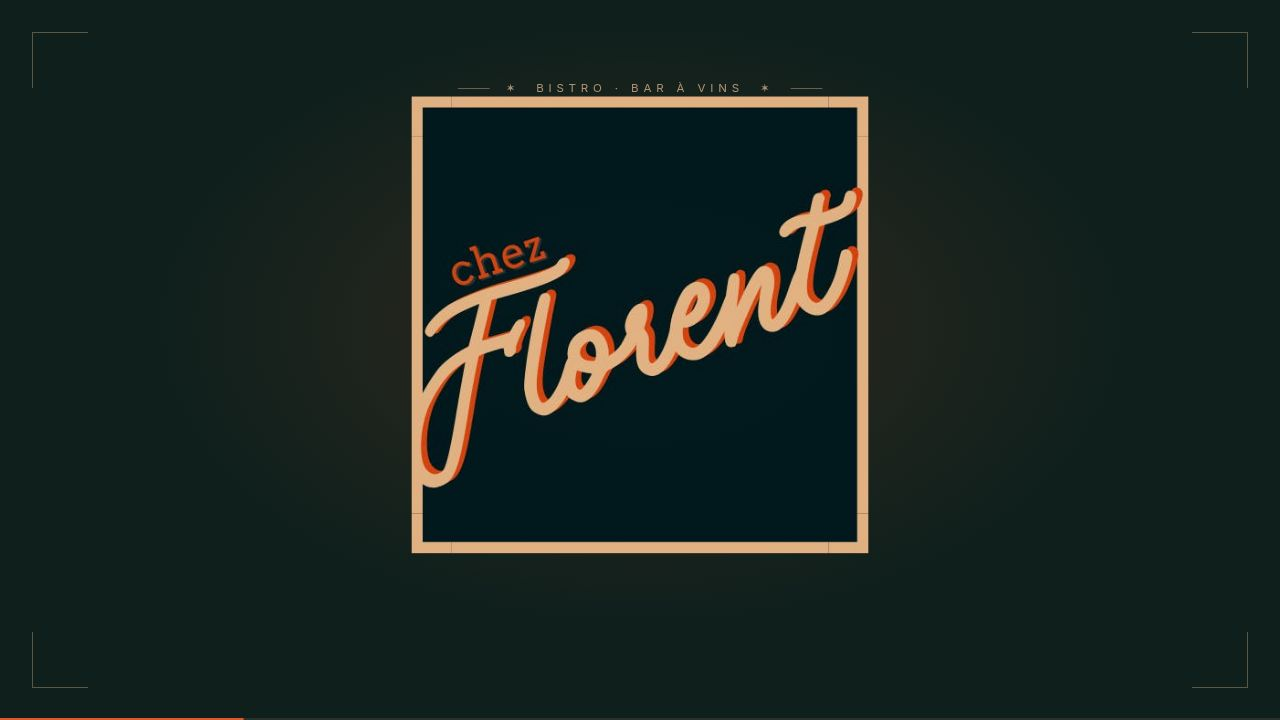
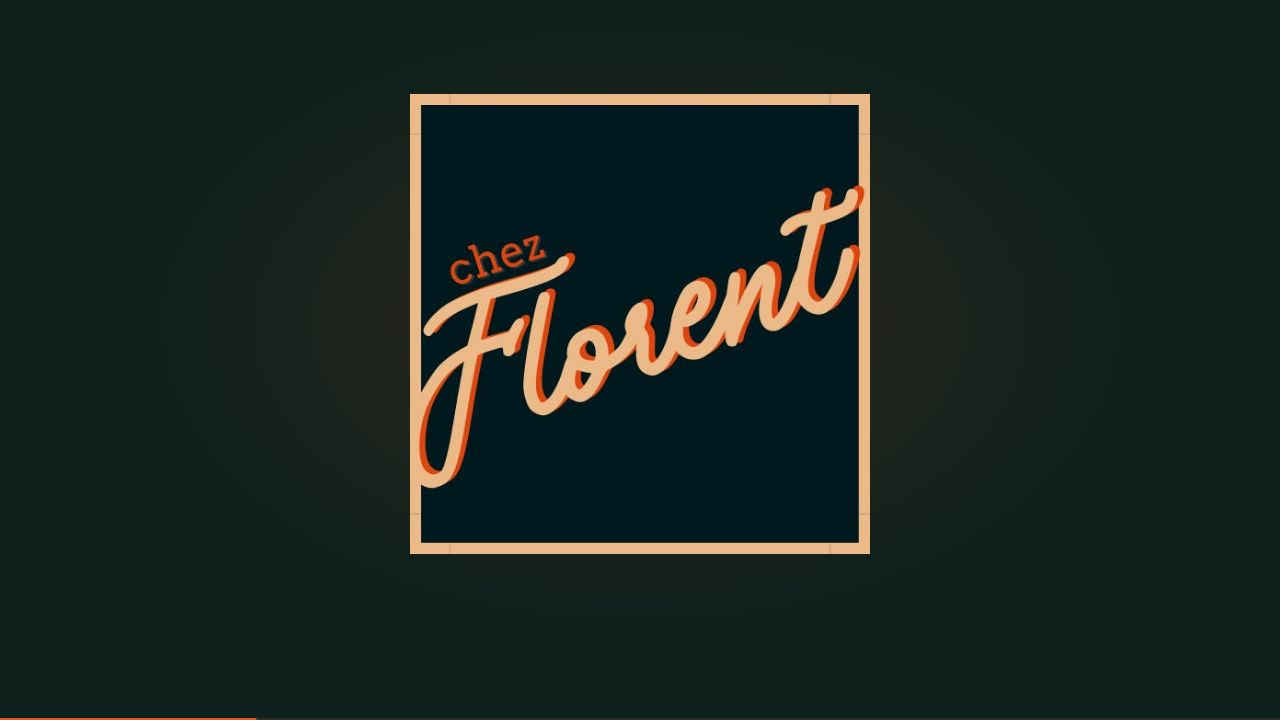
Update testimonials display and refine phone number presentation
Introduce a multi-voice testimonials section with editorial styling and ensure the phone number in the reservation CTA is always on a single line.

Replit-Commit-Author: Agent
Replit-Commit-Session-Id: 679acfb2-0d78-49a1-8e0d-1c5bc0f997c0
Replit-Commit-Checkpoint-Type: full_checkpoint
Replit-Commit-Event-Id: 7970f130-5f67-4e64-94d0-40ac4011ae63
Replit-Commit-Screenshot-Url: https://storage.googleapis.com/screenshot-production-us-central1/0b1f9c86-a932-4fad-973b-883fa82de314/679acfb2-0d78-49a1-8e0d-1c5bc0f997c0/VAoUhM6
Replit-Helium-Checkpoint-Created: true

Changed region(s): [[0.3125, 0.1222, 0.6875, 0.7639], [0.5312, 0.4583, 0.5625, 0.4889]]

diff --git a/artifacts/chez-florent/src/App.tsx b/artifacts/chez-florent/src/App.tsx
@@ -619,24 +619,40 @@ function About() {
 
         {/* Text Columns */}
         <div className="grid grid-cols-1 md:grid-cols-2 gap-12 max-w-4xl ml-auto">
-          <motion.div
+          <motion.figure
             initial={{ opacity: 0, y: 30 }}
             whileInView={{ opacity: 1, y: 0 }}
             viewport={{ once: true, margin: "-100px" }}
             transition={{ duration: 0.8, ease: EASE }}
-            className="font-serif font-normal text-bg-primary text-[1.125rem] leading-[1.8]"
+            className="m-0"
           >
-            « Florent n'est pas seulement un nom au-dessus de la porte. C'est une certaine idée du bistro : celle où l'on s'attable sans cérémonie, où le vin se verse au pichet, et où la cuisine ne triche jamais avec ses produits. »
-          </motion.div>
-          <motion.div
+            <blockquote className="font-serif font-normal text-bg-primary text-[1.125rem] leading-[1.8]">
+              « Florent n'est pas seulement un nom au-dessus de la porte. C'est une certaine idée du bistro : celle où l'on s'attable sans cérémonie, où le vin se verse au pichet, et où la cuisine ne triche jamais avec ses produits. »
+            </blockquote>
+            <figcaption className="mt-4 font-sans text-[0.75rem] tracking-[0.2em] uppercase text-bg-primary/65 flex items-center gap-3">
+              <span aria-hidden="true" className="inline-block w-8 h-px bg-orange/70" />
+              Florent Tremblay
+              <span aria-hidden="true" className="text-orange/70">·</span>
+              <span className="font-serif normal-case italic tracking-normal text-bg-primary/70">Propriétaire</span>
+            </figcaption>
+          </motion.figure>
+          <motion.figure
             initial={{ opacity: 0, y: 30 }}
             whileInView={{ opacity: 1, y: 0 }}
             viewport={{ once: true, margin: "-100px" }}
             transition={{ duration: 0.8, ease: EASE, delay: 0.1 }}
-            className="font-sans font-light text-bg-primary/75 text-[1rem] leading-[1.8]"
+            className="m-0"
           >
-            « On travaille avec des fermiers qu'on appelle par leur prénom — la Ferme J.N Beauchemin pour les saucisses, Fromagerie Fuoco pour la bufarella, Les Cowboys du BBQ pour le brisket. Le reste, c'est de l'huile de coude et du temps. »
-          </motion.div>
+            <blockquote className="font-sans font-light text-bg-primary/80 text-[1rem] leading-[1.8]">
+              « On travaille avec des fermiers qu'on appelle par leur prénom — la Ferme J.N Beauchemin pour les saucisses, Fromagerie Fuoco pour la bufarella, Les Cowboys du BBQ pour le brisket. Le reste, c'est de l'huile de coude et du temps. »
+            </blockquote>
+            <figcaption className="mt-4 font-sans text-[0.75rem] tracking-[0.2em] uppercase text-bg-primary/65 flex items-center gap-3">
+              <span aria-hidden="true" className="inline-block w-8 h-px bg-orange/70" />
+              Annie Vincent
+              <span aria-hidden="true" className="text-orange/70">·</span>
+              <span className="font-serif normal-case italic tracking-normal text-bg-primary/70">Sommelière</span>
+            </figcaption>
+          </motion.figure>
         </div>
       </div>
     </section>
@@ -896,70 +912,174 @@ function Menu() {
   );
 }
 
-function AmbianceStrip() {
+type PatronVoice = {
+  quote: string;
+  name: string;
+  context: string;
+  source: string;
+  date: string;
+  image: string;
+};
+
+const PATRON_VOICES: PatronVoice[] = [
+  {
+    quote: "Le grilled-cheese / vin orange du jeudi soir, c'est devenu notre rituel. Ils nous accueillent comme à la maison — sauf qu'à la maison, on ne mange pas aussi bien.",
+    name: "Marie-Pier Lafontaine",
+    context: "Sorel-Tracy · Habituée du jeudi",
+    source: "Google",
+    date: "Mars 2026",
+    image: "wine-pour.png",
+  },
+  {
+    quote: "Sans réservation un mardi, Florent nous a placés au comptoir avec un pichet de gamay et une planche. Trois heures plus tard, on parlait encore avec la table d'à côté.",
+    name: "Étienne Caron",
+    context: "Trois-Rivières · Premier passage",
+    source: "Tripadvisor",
+    date: "Janvier 2026",
+    image: "ambiance-smoke.png",
+  },
+  {
+    quote: "La pizza Vodka. Trois fois par mois. Pas la peine d'en dire plus.",
+    name: "Jean-Sébastien Boucher",
+    context: "Saint-Hyacinthe · 14 visites",
+    source: "Instagram",
+    date: "Avril 2026",
+    image: "dish-pizza.png",
+  },
+];
+
+function Testimonials() {
   return (
-    <section className="bg-bg-primary pb-0 pt-32 relative">
+    <section id="voix" className="bg-bg-primary pt-32 pb-32 relative overflow-hidden">
       <SectionMarker number="—" />
-      <div className="max-w-7xl mx-auto px-6 md:px-12 mb-20 relative z-10">
+
+      {/* Header */}
+      <div className="max-w-7xl mx-auto px-6 md:px-12 relative z-10 mb-20 md:mb-24">
         <div className="text-[0.75rem] font-medium tracking-[0.2em] uppercase text-cream-soft mb-6">
-          ◦ Interlude — L'ambiance
+          <span aria-hidden="true">◦ </span>Interlude — Voix de la salle
         </div>
-        <h2 className="font-serif font-light italic text-cream leading-[0.95] text-[clamp(2.5rem,6vw,5rem)] max-w-4xl">
+        <h2 className="font-display text-cream leading-[0.95] text-[clamp(4rem,11vw,9.5rem)] mb-8">
           <motion.span
-            initial={{ opacity: 0, y: 20 }}
+            initial={{ opacity: 0, y: 30 }}
             whileInView={{ opacity: 1, y: 0 }}
             viewport={{ once: true, margin: "-100px" }}
             transition={{ duration: 0.8, ease: EASE }}
             className="block"
           >
-            « On ne vient pas chez Florent pour manger vite.
-          </motion.span>
-          <motion.span
-            initial={{ opacity: 0, y: 20 }}
-            whileInView={{ opacity: 1, y: 0 }}
-            viewport={{ once: true, margin: "-100px" }}
-            transition={{ duration: 0.8, ease: EASE, delay: 0.15 }}
-            className="block text-orange"
-          >
-            On vient pour rester. »
+            Bouche à oreille
           </motion.span>
         </h2>
         <motion.p
           initial={{ opacity: 0, y: 10 }}
           whileInView={{ opacity: 1, y: 0 }}
           viewport={{ once: true, margin: "-100px" }}
-          transition={{ duration: 0.8, ease: EASE, delay: 0.3 }}
-          className="font-sans italic text-cream-soft/85 max-w-2xl text-base md:text-lg mt-8"
+          transition={{ duration: 0.7, ease: EASE, delay: 0.1 }}
+          className="font-serif italic text-cream-soft/85 max-w-2xl text-lg md:text-xl"
         >
-          Trois instants d'une soirée chez nous — de la salle au crépuscule.
+          Quelques voix glanées au comptoir, dans la presse, sur le téléphone du midi.
         </motion.p>
       </div>
 
-      <div className="grid grid-cols-1 md:grid-cols-3 w-full">
-        {[
-          { src: "wine-pour.png", alt: "Service du vin", caption: "◦ La salle" },
-          { src: "exterior-dusk.png", alt: "L'extérieur", caption: "◦ La devanture", className: "object-cover object-center h-full aspect-[4/5] md:aspect-auto" },
-          { src: "ambiance-smoke.png", alt: "Ambiance fumée", caption: "◦ La fin de soirée" }
-        ].map((img, i) => (
-          <motion.div
-            key={i}
-            initial={{ opacity: 0 }}
-            whileInView={{ opacity: 1 }}
-            viewport={{ once: true, margin: "-100px" }}
-            transition={{ duration: 0.8, ease: EASE, delay: i * 0.1 }}
-            className="overflow-hidden relative group aspect-[4/5] md:aspect-[3/4]"
-          >
-            <img 
-              src={`/images/${img.src}`} 
-              alt={img.alt} 
-              className={`w-full h-full object-cover transition-transform duration-1000 ease-out group-hover:scale-105 ${img.className || ''}`}
-            />
-            <div className="absolute bottom-6 left-6 z-10">
-              <span className="font-sans text-[0.85rem] text-cream drop-shadow-md">{img.caption}</span>
-              <div className="h-[1px] bg-orange w-0 group-hover:w-full transition-all duration-500 ease-out mt-1"></div>
+      {/* Featured press critique — split editorial layout */}
+      <div className="max-w-7xl mx-auto px-6 md:px-12 relative z-10 mb-24 md:mb-32">
+        <motion.article
+          initial={{ opacity: 0, y: 30 }}
+          whileInView={{ opacity: 1, y: 0 }}
+          viewport={{ once: true, margin: "-100px" }}
+          transition={{ duration: 0.9, ease: EASE }}
+          className="grid grid-cols-1 md:grid-cols-12 gap-10 md:gap-14 items-center border-y border-border py-12 md:py-16"
+        >
+          <div className="md:col-span-7 relative">
+            <div className="aspect-[5/4] overflow-hidden ring-1 ring-cream/10">
+              <img
+                src="/images/exterior-dusk.png"
+                alt="Devanture de Chez Florent au crépuscule"
+                className="w-full h-full object-cover"
+              />
             </div>
-          </motion.div>
-        ))}
+            {/* Press stamp */}
+            <div className="absolute top-4 right-4 md:top-6 md:right-6 bg-cream-soft text-bg-primary px-4 py-2 font-sans text-[0.65rem] md:text-[0.7rem] font-medium tracking-[0.22em] uppercase rotate-2 shadow-lg">
+              <span aria-hidden="true">✶ </span>Presse · 2025
+            </div>
+          </div>
+          <div className="md:col-span-5">
+            <div className="text-[0.7rem] font-medium tracking-[0.22em] uppercase text-orange mb-5">
+              <span aria-hidden="true">✶ </span>Critique gastronomique
+            </div>
+            <blockquote className="font-serif italic font-light text-cream leading-[1.18] text-[clamp(1.6rem,2.5vw,2.2rem)] mb-8">
+              <span aria-hidden="true" className="text-orange/70 select-none">«&nbsp;</span>
+              Une cuisine qui ne joue pas la carte du « bistro chic », mais celle, plus rare, de la générosité tenue jusqu'au bout. À 19h45 un samedi, c'est une vraie réussite.
+              <span aria-hidden="true" className="text-orange/70 select-none">&nbsp;»</span>
+            </blockquote>
+            <cite className="not-italic block">
+              <div className="font-serif text-cream text-lg md:text-xl">Geneviève Forget</div>
+              <div className="font-sans text-[0.72rem] tracking-[0.22em] uppercase text-cream-soft/80 mt-2 flex items-center gap-3">
+                <span aria-hidden="true" className="inline-block w-8 h-px bg-orange/70" />
+                Le Devoir
+                <span aria-hidden="true" className="text-orange/70">·</span>
+                12 mai 2025
+              </div>
+            </cite>
+          </div>
+        </motion.article>
+      </div>
+
+      {/* Patron voices — asymmetric staggered grid */}
+      <div className="max-w-7xl mx-auto px-6 md:px-12 relative z-10">
+        <div className="grid grid-cols-1 md:grid-cols-3 gap-10 md:gap-8 lg:gap-14">
+          {PATRON_VOICES.map((v, i) => (
+            <motion.article
+              key={v.name}
+              initial={{ opacity: 0, y: 30 }}
+              whileInView={{ opacity: 1, y: 0 }}
+              viewport={{ once: true, margin: "-80px" }}
+              transition={{ duration: 0.8, ease: EASE, delay: i * 0.12 }}
+              className={`flex flex-col group ${
+                i === 0 ? "" : i === 1 ? "md:mt-8 lg:mt-16" : "md:mt-16 lg:mt-32"
+              }`}
+            >
+              {/* Photo with rating overlay */}
+              <div className="relative aspect-[4/5] overflow-hidden ring-1 ring-cream/10 mb-6">
+                <img
+                  src={`/images/${v.image}`}
+                  alt=""
+                  className="w-full h-full object-cover transition-transform duration-1000 ease-out group-hover:scale-105"
+                />
+                <div className="absolute bottom-4 left-4 flex items-center gap-2 bg-bg-primary/85 backdrop-blur-sm px-3 py-1.5">
+                  <span
+                    className="text-orange tracking-[0.15em] text-sm leading-none"
+                    aria-label="5 étoiles sur 5"
+                  >
+                    ★★★★★
+                  </span>
+                </div>
+              </div>
+
+              {/* Quote */}
+              <blockquote className="font-serif italic text-cream/95 text-[1.08rem] md:text-[1.18rem] leading-[1.55] mb-6">
+                <span aria-hidden="true" className="text-orange/80">«&nbsp;</span>
+                {v.quote}
+                <span aria-hidden="true" className="text-orange/80">&nbsp;»</span>
+              </blockquote>
+
+              {/* Attribution */}
+              <div className="mt-auto pt-5 border-t border-border">
+                <div className="font-serif text-cream text-base md:text-lg leading-tight">
+                  {v.name}
+                </div>
+                <div className="font-sans italic text-cream-soft/80 text-[0.85rem] mt-1.5">
+                  {v.context}
+                </div>
+                <div className="flex items-center gap-3 mt-3 text-[0.7rem] font-medium tracking-[0.22em] uppercase text-cream-soft/70">
+                  <span aria-hidden="true" className="inline-block w-6 h-px bg-orange/60" />
+                  <span>{v.source}</span>
+                  <span aria-hidden="true" className="text-orange/60">·</span>
+                  <span>{v.date}</span>
+                </div>
+              </div>
+            </motion.article>
+          ))}
+        </div>
       </div>
     </section>
   );
@@ -1377,8 +1497,8 @@ function Reservation() {
                     <div className="text-[0.7rem] tracking-[0.22em] uppercase text-orange mb-3">
                       <span aria-hidden="true">✶ </span>Le plus chaleureux
                     </div>
-                    <div className="font-display text-cream text-[clamp(2.75rem,7vw,4.5rem)] group-hover:text-orange transition-colors leading-[0.95] mb-3">
-                      450&nbsp;743-1448
+                    <div className="font-display text-cream text-[clamp(2.25rem,4.6vw,3rem)] group-hover:text-orange transition-colors leading-[0.95] mb-3 whitespace-nowrap">
+                      450&nbsp;743&#8209;1448
                     </div>
                     <div className="text-[0.75rem] tracking-[0.18em] uppercase text-cream-soft/85 group-hover:text-cream transition-colors">
                       Touchez pour appeler <span aria-hidden="true">↘</span>
@@ -1981,7 +2101,7 @@ export default function App() {
           <Hero />
           <About />
           <Menu />
-          <AmbianceStrip />
+          <Testimonials />
           <Agenda />
           <Reservation />
           <Contact />